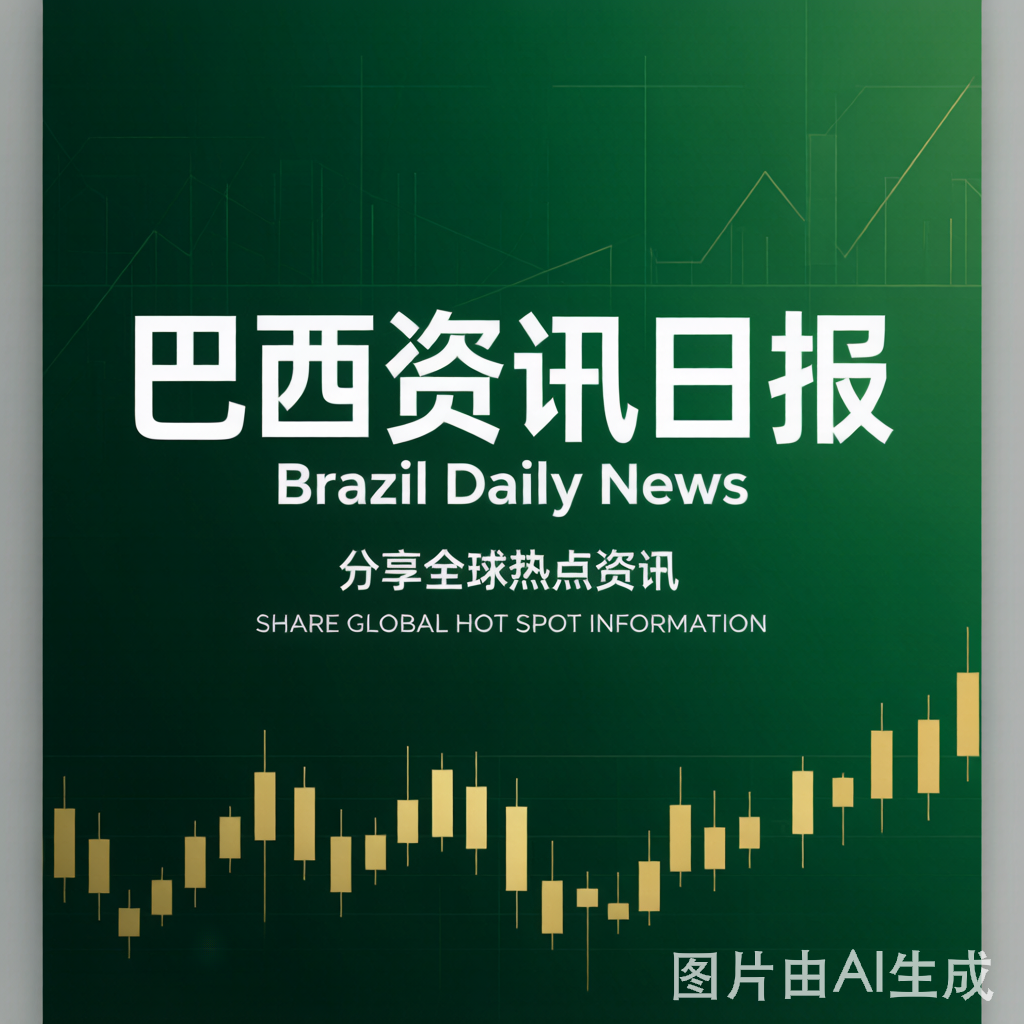
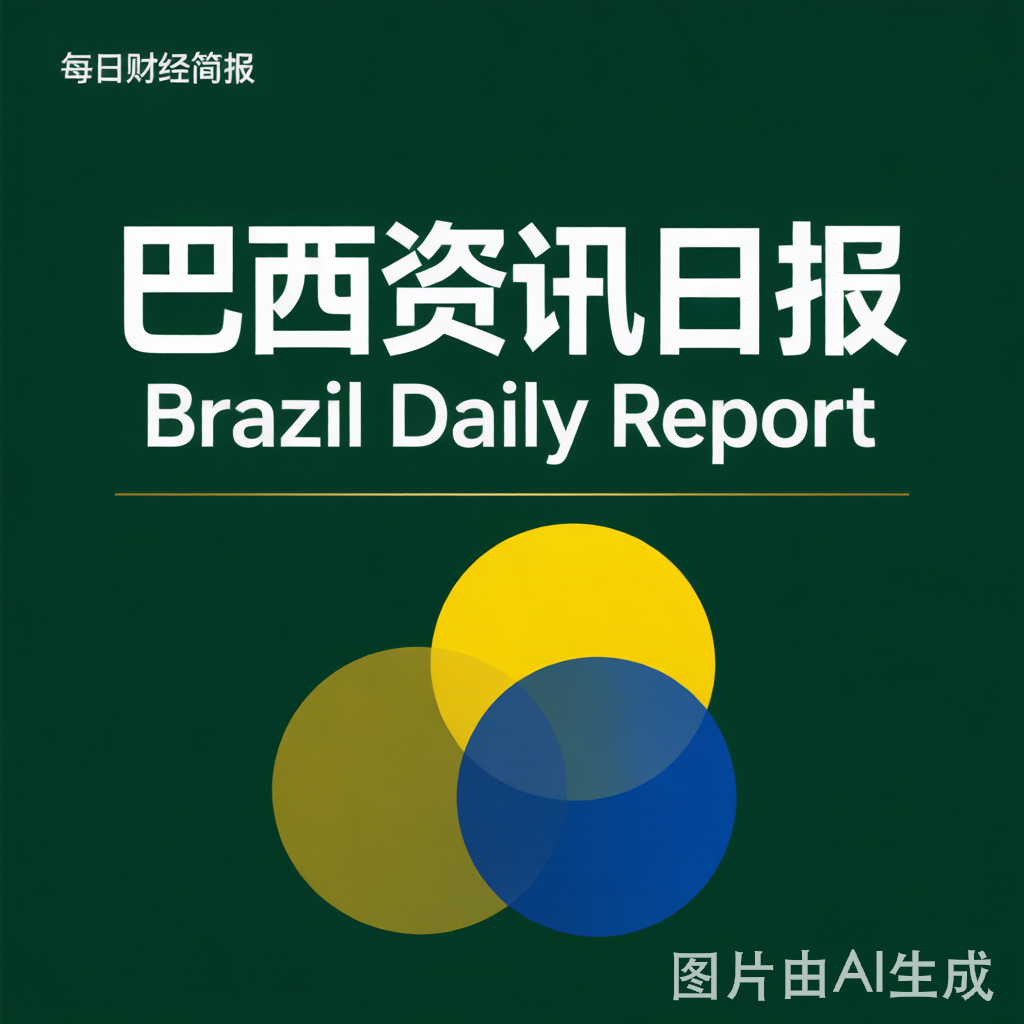
fix: 修复税务与合规链接指向图片的问题 + 新封面图
- _try_receita(): 改用同一<a>标签同时提取href+锚点文本，彻底消除zip
  错位导致标题配到图片URL的根因；新增对 .jpg/.png/.gif 等扩展名过滤
- 新增 _clean_gn_description(): 解析Google News RSS描述HTML，格式化为
  '➤ 文章标题（来源）'多行文本，避免清洗后呈现纯来源名（看起来像作者信息）
- _parse_rss_items(): 集成 _clean_gn_description()，过滤指向图片的链接
- cover.png: 重新生成商务封面图，去除K线图，改为绿色底+金色几何装饰

diff --git a/main.py b/main.py
@@ -805,6 +805,40 @@ def _clean(text):
     text = re.sub(r'\s+', ' ', text).strip()
     return text
 
+def _clean_gn_description(desc_html):
+    """解析Google News RSS描述HTML，提取文章标题+来源，格式化为可读文本。
+    Google News description格式: <ol><li><a href="...">Title</a><font>Source</font></li>...</ol>
+    避免清洗后变成 "Title1 来源1 Title2 来源2" 纯字符串（用户误以为是作者信息）。
+    """
+    if not desc_html or len(desc_html.strip()) < 10:
+        return ""
+    # 先进行HTML实体解码，处理 &lt; &gt; 等
+    unescaped = _html.unescape(desc_html)
+    # 提取 <a>Title</a>...<font>Source</font> 对
+    pairs = re.findall(
+        r'<a[^>]*>([^<]{8,200})</a>[^<]*<font[^>]*>([^<]{2,60})</font>',
+        unescaped, re.IGNORECASE
+    )
+    if pairs:
+        lines = []
+        for title_raw, source_raw in pairs[:4]:
+            ct = _clean(title_raw).strip()
+            cs = _clean(source_raw).strip()
+            if ct:
+                lines.append(f"➤ {ct}（{cs}）" if cs else f"➤ {ct}")
+        if lines:
+            return "\n".join(lines)
+    # 兜底：仅提取所有 <a> 标签文字，忽略单独的来源名
+    a_texts = re.findall(r'<a[^>]*>([^<]{8,200})</a>', unescaped, re.IGNORECASE)
+    if a_texts:
+        cleaned = [_clean(t).strip() for t in a_texts[:4]]
+        cleaned = [t for t in cleaned if len(t) > 10]
+        if cleaned:
+            return "\n".join(f"➤ {t}" for t in cleaned)
+    # 最终兜底
+    return _clean(desc_html)[:400]
+
+
 def _parse_rss_items(xml_text, max_items=5):
     """Parse RSS XML items into article dicts. Returns empty list if no valid items."""
     if not xml_text or "<item>" not in xml_text:
@@ -824,8 +858,21 @@ def _parse_rss_items(xml_text, max_items=5):
         if not title or not link:
             continue
         
+        # 过滤链接指向图片/媒体文件的条目（这类链接阅读原文会跳到一张图）
+        if re.search(r'\.(jpg|jpeg|png|gif|webp|mp4|mp3)(\?[^"]*)?$', link, re.I):
+            continue
+        
         clean_title = _clean(title)
-        clean_desc = _clean(desc)[:500] if desc else clean_title
+        
+        # 用专用解析器处理 Google News 描述（含HTML格式 <a>Title</a><font>Source</font>）
+        if desc and ("<a " in desc or "&lt;a " in desc or "&#60;a " in desc):
+            clean_desc = _clean_gn_description(desc)
+        else:
+            clean_desc = _clean(desc)[:400] if desc else ""
+        
+        # 如果描述过短或与标题相同，用标题补充
+        if not clean_desc or len(clean_desc.strip()) < 15:
+            clean_desc = clean_title
         
         # Google News format: "Actual Title - Source Name"
         display_source = src_name or "Google News"
@@ -1324,38 +1371,86 @@ def fetch_chinese_community():
 
 def _try_receita():
     """尝试从巴西税务局官网抓取当日真实新闻并翻译为中文。
-    翻译成功才返回；否则返回空列表，让链路交给 Google News 提供每日新鲜内容。"""
+    修复了旧版 zip 错位导致标题配到图片链接的问题：
+    新版从同一 <a> 标签同时提取 href 和锚点文本，保证配对正确。
+    翻译成功才返回；否则返回空列表，交给 Google News 提供新鲜内容。
+    """
     today_str = datetime.now(BJ_TZ).strftime("%Y-%m-%d")
 
     try:
         text = _fetch("https://www.gov.br/receitafederal/pt-br/assuntos/noticias", timeout=15)
-        if text and len(text) > 500:
-            items_found = re.findall(r'(?:title|alt)="([^"]{15,120})"', text)
-            links_found = re.findall(r'href="(/receitafederal[^"]{10,})"', text)
-            seen_t = set()
-            raw_arts = []
-            skip_kw = ["receita federal", "gov.br", "javascript", "toggle", "menu",
-                       "search", "buscar", "acessibilidade", "governo"]
-            for t, l in zip(items_found[:10], links_found[:10]):
-                ct = _clean(t)
-                if ct and ct not in seen_t and len(ct) > 18:
+        if not text or len(text) < 500:
+            return []
+
+        skip_kw = ["logo", "ícone", "imagem", "clique aqui", "acesse", "voltar",
+                   "buscar", "menu", "javascript", "download", "ver mais",
+                   "gov.br", "home", "início", "receita federal do brasil",
+                   "ministério", "acessibilidade"]
+
+        # ── 方法1：从同一 <a> 标签同时提取 href + 锚点文本（无 zip 错位风险）──
+        # gov.br Plone CMS 新闻文章URL格式:
+        #   /receitafederal/pt-br/assuntos/noticias/YYYY/month/article-slug
+        news_articles = re.findall(
+            r'<a[^>]+href="(/receitafederal/pt-br/assuntos/noticias/\d{4}/[^"#?\s]{5,})"[^>]*>'
+            r'\s*([^<]{15,120})\s*</a>',
+            text, re.IGNORECASE
+        )
+
+        seen_links = set()
+        raw_arts = []
+        for link, title_html in news_articles:
+            # 过滤图片/媒体/样式/脚本文件（之前漏洞的根源：这类URL被错配给图片alt文本）
+            if re.search(r'\.(jpg|jpeg|png|gif|webp|pdf|css|js|ico|svg)(\?.*)?$', link, re.I):
+                continue
+            ct = _clean(title_html).strip()
+            full_link = "https://www.gov.br" + link
+            if ct and len(ct) > 18 and full_link not in seen_links:
+                if not any(kw in ct.lower() for kw in skip_kw):
+                    seen_links.add(full_link)
+                    raw_arts.append((ct, full_link))
+                    if len(raw_arts) >= 4:
+                        break
+
+        # ── 方法2兜底：h2/h3 标题 + 新闻年份路径URL（独立提取，不依赖zip顺序）──
+        if not raw_arts:
+            headings = re.findall(r'<h[234][^>]*>([^<]{18,120})</h[234]>', text, re.IGNORECASE)
+            all_news_links = re.findall(
+                r'href="((?:https?://www\.gov\.br)?/receitafederal/pt-br/assuntos/noticias/\d{4}/[^"#?\s]{5,})"',
+                text, re.IGNORECASE
+            )
+            # 去重并过滤非文章URL
+            unique_links, seen_l = [], set()
+            for l in all_news_links:
+                full = ("https://www.gov.br" + l) if l.startswith("/") else l
+                if full not in seen_l and not re.search(r'\.(jpg|png|gif|pdf|css|js)(\?.*)?$', full, re.I):
+                    seen_l.add(full)
+                    unique_links.append(full)
+
+            seen = set()
+            for t, l in zip(headings[:5], unique_links[:5]):
+                ct = _clean(t).strip()
+                if ct and len(ct) > 18 and l not in seen:
                     if not any(kw in ct.lower() for kw in skip_kw):
-                        seen_t.add(ct)
-                        raw_arts.append((ct, "https://www.gov.br" + l if l.startswith("/") else l))
-            if raw_arts:
-                titles_pt = "；".join([a[0] for a in raw_arts[:4]])
-                zh_titles = translate_to_chinese(titles_pt)
-                if is_chinese(zh_titles):
-                    return [{
-                        "title": f"巴西联邦税务局今日公告（{today_str}）",
-                        "summary": zh_titles,
-                        "source": "巴西联邦税务局 (Receita Federal)",
-                        "category": "税务与合规",
-                        "time": today_str,
-                        "url": raw_arts[0][1],
-                    }]
-    except Exception:
-        pass
+                        seen.add(l)
+                        raw_arts.append((ct, l))
+
+        if not raw_arts:
+            return []
+
+        # 翻译为中文
+        titles_pt = "；".join([a[0] for a in raw_arts[:4]])
+        zh_titles = translate_to_chinese(titles_pt)
+        if is_chinese(zh_titles):
+            return [{
+                "title": f"巴西联邦税务局最新公告（{today_str}）",
+                "summary": zh_titles,
+                "source": "巴西联邦税务局 (Receita Federal)",
+                "category": "税务与合规",
+                "time": today_str,
+                "url": raw_arts[0][1],
+            }]
+    except Exception as e:
+        print(f"  [WARN] _try_receita error: {e}")
 
     # 官网不可达或翻译失败 → 返回空列表，交给 Google News 提供当天新鲜内容
     return []